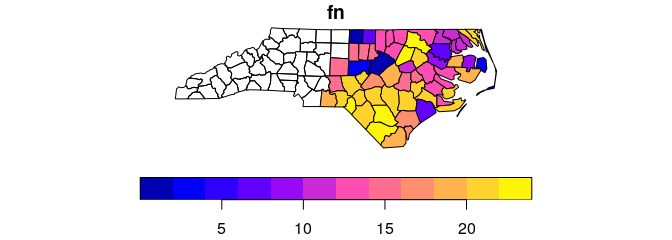
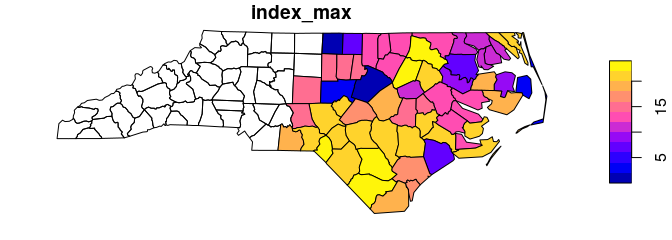
update

diff --git a/README.md b/README.md
@@ -136,9 +136,9 @@ plot(a, max.plot = 23)
 We can integrate over time, e.g. to find out when the maximum precipitation occurred (here reported as the index of the time step):
 
 ``` r
-fn = function(x) ifelse(all(is.na(x)), NA, which.max(x))
-st_apply(a, "geometry", fn) %>%
-  plot(key.pos = 1)
+index_max = function(x) ifelse(all(is.na(x)), NA, which.max(x))
+st_apply(a, "geometry", index_max) %>%
+  plot(main = "time step of maximum precipitation")
 ```
 
 ![](images/unnamed-chunk-10-1.png)
